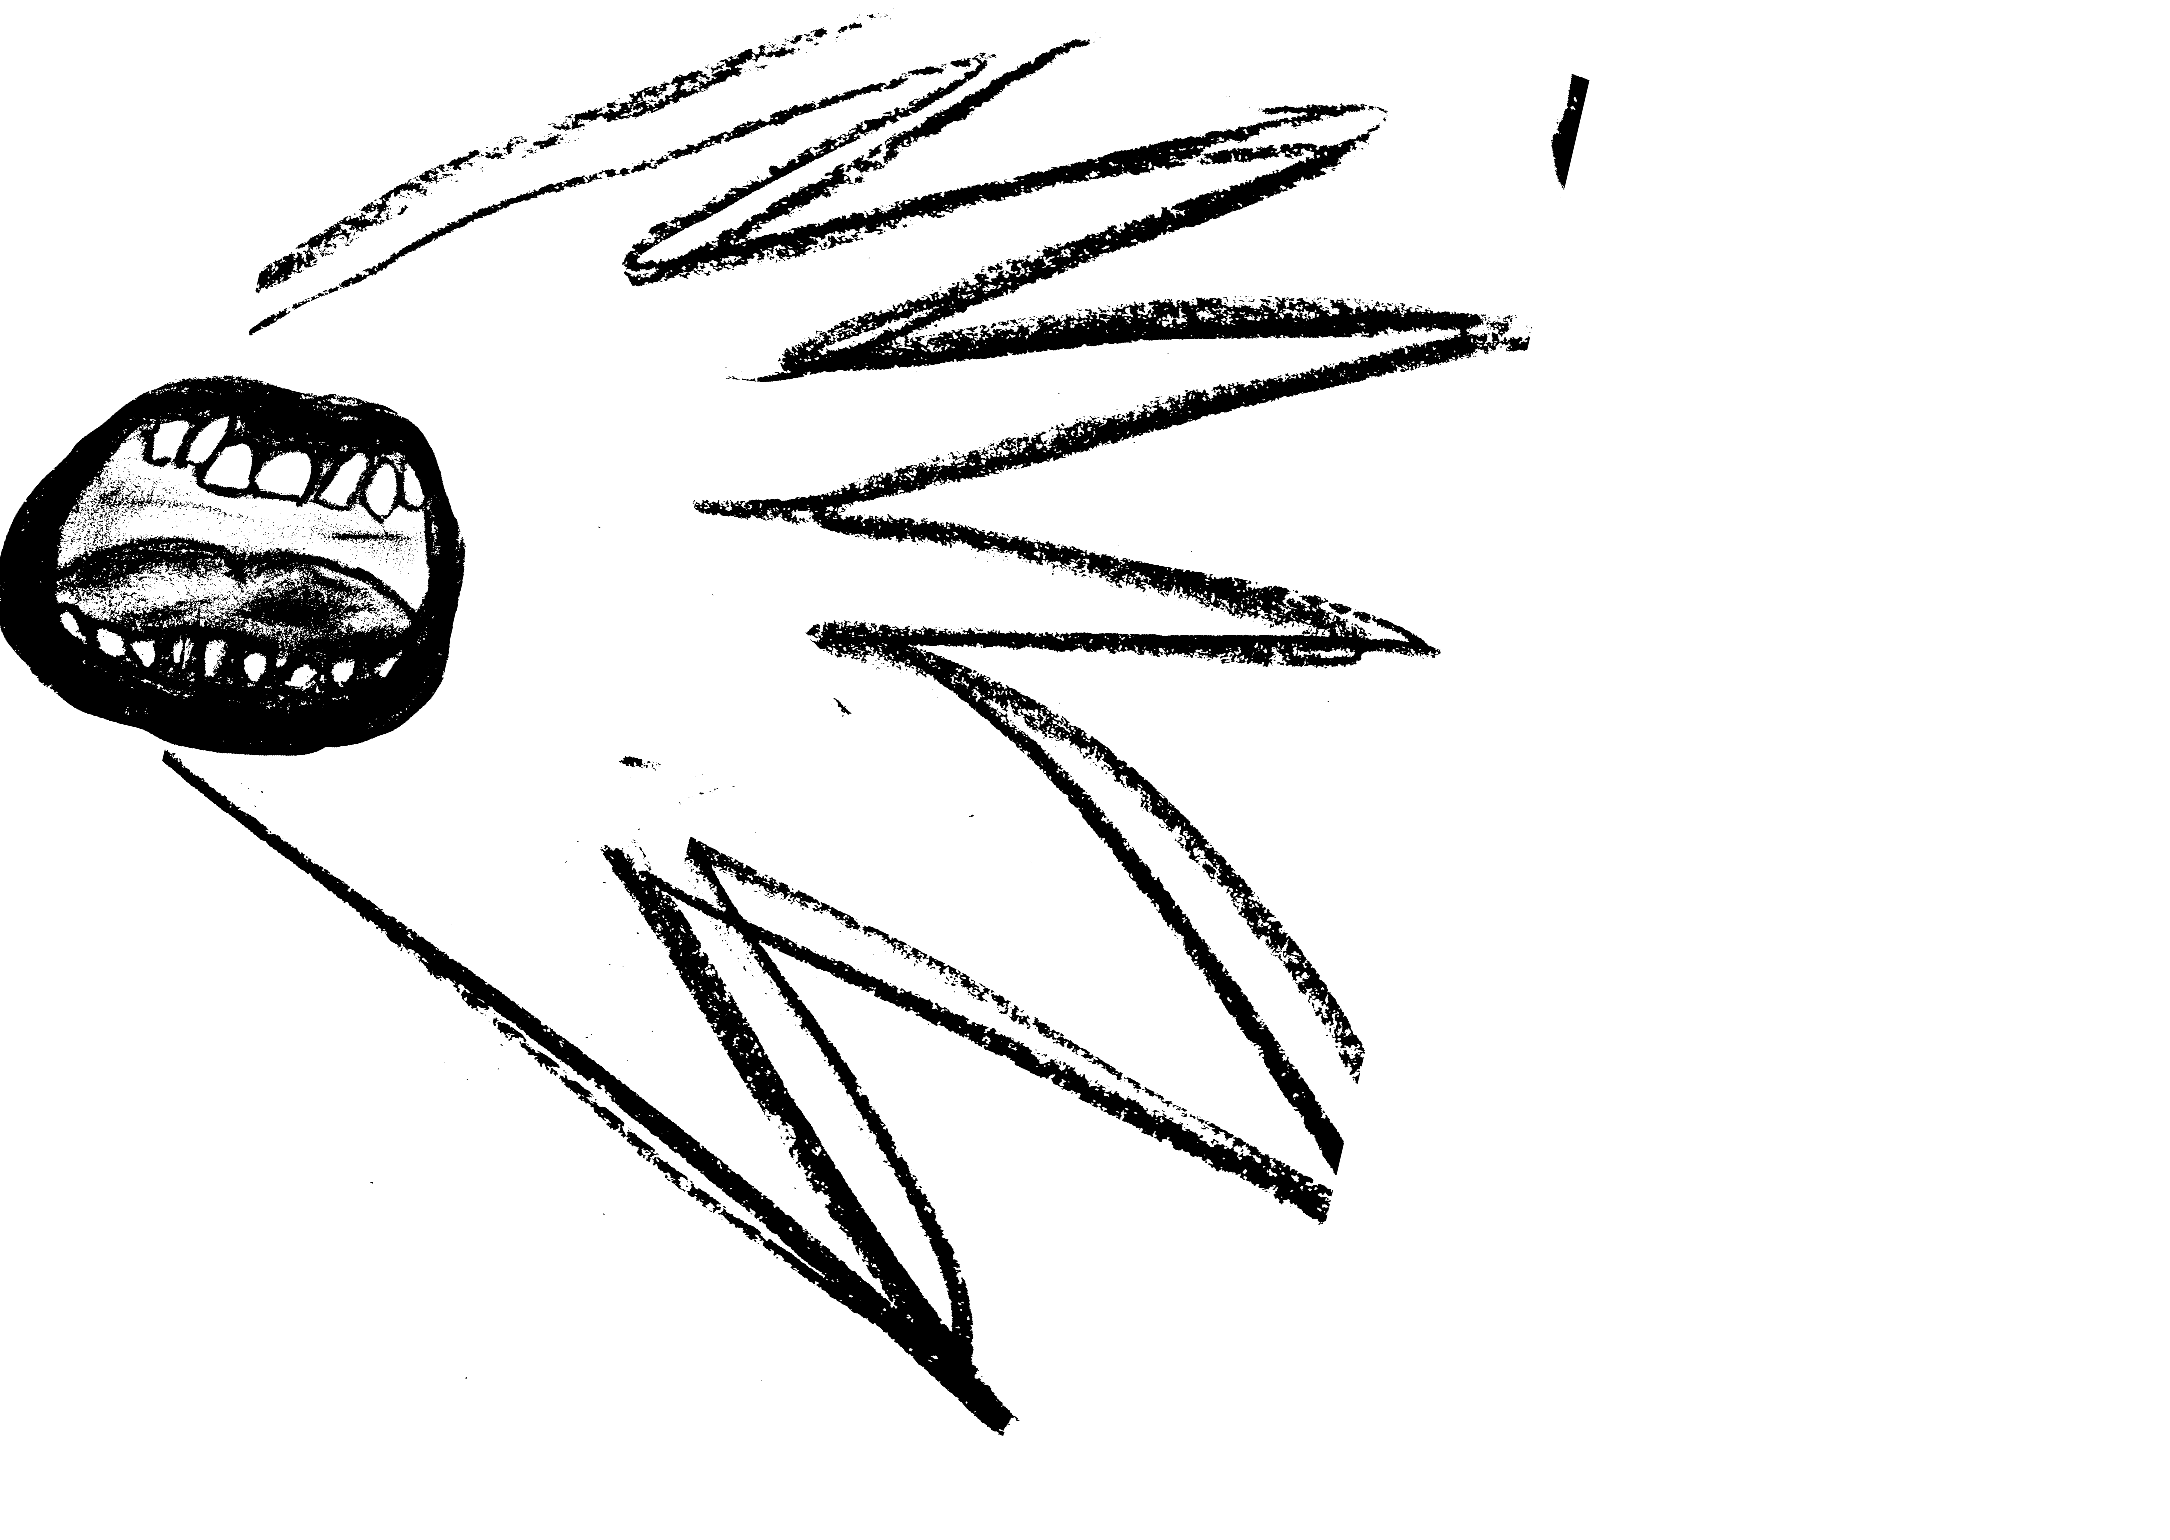
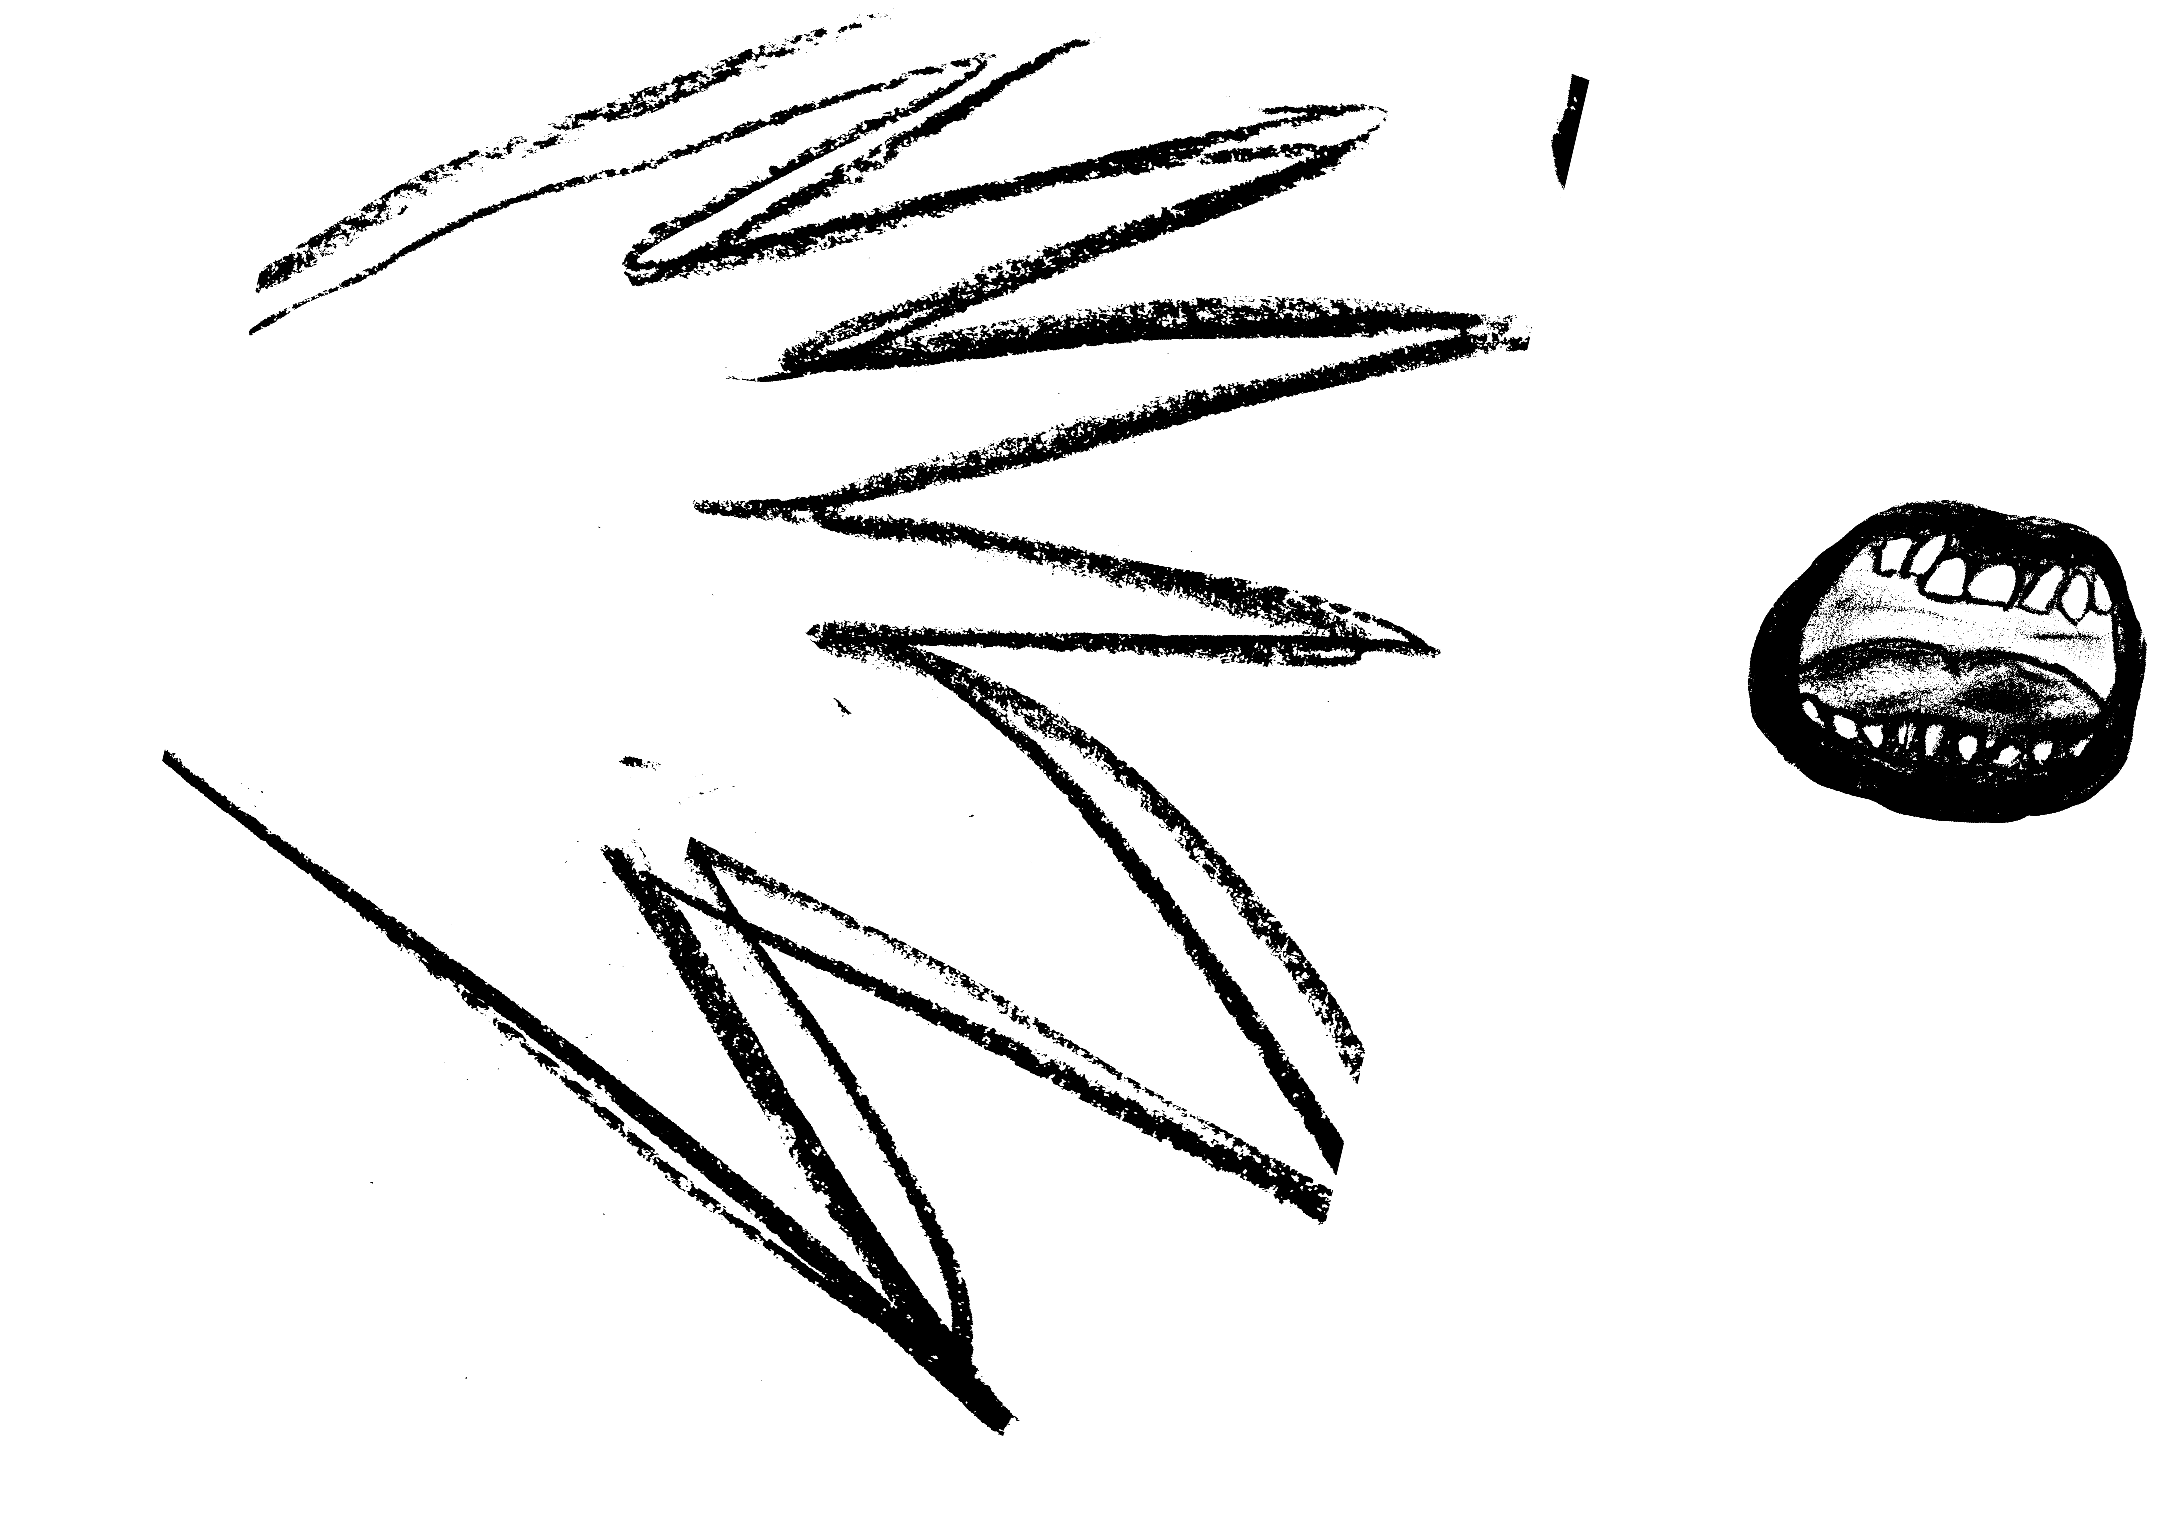
Add files via upload

Changed region(s): [[0.0, 0.2182, 0.2161, 0.4987], [0.8028, 0.3117, 0.988, 0.561]]

diff --git a/index.html b/index.html
@@ -36,13 +36,15 @@
       .st-buehne > * { }
     }
 
+    #lebenslauf > h2 { border-top: 0; padding-top: 0; }
+
     /* --- About me --- */
     .ab { position: relative; overflow: hidden; border-top: 3px solid #000; border-bottom: 3px solid #000; margin: clamp(28px, 6vw, 80px) 0 0; padding: clamp(14px, 2vw, 28px) 0 clamp(40px, 6vw, 84px); }
     .ab-text { position: relative; z-index: 2; width: 47%; min-width: 300px; margin: 0 auto; }
     .ab-text h2 { font-family: var(--display); font-weight: 900; font-size: clamp(2.1rem, 4.6vw, 4.8rem); line-height: 1; text-transform: uppercase; margin: 0 0 clamp(.7rem, 1.6vw, 1.5rem); padding: 0; border: 0; }
-    .ab-text p { max-width: none; margin: 0 0 1.05em; font-size: clamp(1.02rem, 1.75vw, 1.7rem); line-height: 1.22; font-weight: 400; text-align: left; }
+    .ab-text p { max-width: none; margin: 0 0 1.5em; font-size: clamp(1.02rem, 1.75vw, 1.7rem); line-height: 1.35; font-weight: 400; text-align: left; }
     .ab-stern { position: absolute; z-index: 1; width: 38%; height: auto; pointer-events: none; }
-    .ab-stern.l { left: -25%; top: 6%; transform: scaleX(-1) rotate(-12deg); transform-origin: 70% 50%; }
+    .ab-stern.l { left: -30%; top: 6%; transform: scaleX(-1) rotate(-12deg); transform-origin: 70% 50%; }
     .ab-stern.r { left: 71%; top: 24%; }
     @media (max-width: 719px) {
       .ab { padding-top: 52vw; }
@@ -57,8 +59,10 @@
     .ko h2 { font-family: var(--display); font-weight: 900; font-size: clamp(2.2rem, 5vw, 5.2rem); line-height: 1; text-transform: uppercase; margin: 0 0 clamp(.8rem, 2vw, 2rem); padding: 0; border: 0; }
     .ko a.mail { position: relative; z-index: 2; display: inline-block; font-family: var(--display); font-weight: 900; font-size: clamp(1.05rem, 3.05vw, 3.4rem); line-height: 1.1; text-transform: uppercase; color: #000; text-decoration: none; word-break: break-word; transition: color .2s ease; }
     .ko a.mail:hover, .ko a.mail:focus-visible { color: var(--violett, #8b3ff0); outline: none; }
-    .ko-daumen { position: absolute; right: -1.2%; bottom: 0; width: 15.5%; min-width: 96px; height: auto; transform: scaleX(-1); pointer-events: none; }
-    @media (max-width: 719px) { .ko a.mail { font-size: 4.9vw; } .ko-daumen { width: 30%; } }
+    .ko-daumen { position: absolute; right: -1.2%; bottom: 0; width: 17%; min-width: 120px; height: auto; transform: translate(70%, 75%) scaleX(-1); opacity: 0; transition: transform .55s cubic-bezier(.2,.9,.25,1.15), opacity .2s ease; pointer-events: none; }
+    .ko a.mail:hover ~ .ko-daumen, .ko a.mail:focus-visible ~ .ko-daumen, .ko a.mail:active ~ .ko-daumen { transform: translate(0, 0) scaleX(-1); opacity: 1; }
+    @media (prefers-reduced-motion: reduce) { .ko-daumen { transition: opacity .2s ease; transform: scaleX(-1); } }
+    @media (max-width: 719px) { .ko a.mail { font-size: 4.9vw; } .ko-daumen { width: 38%; } }
   </style>
 </head>
 <body>
@@ -93,7 +97,6 @@
         <li><a href="animation.html">Animation</a></li>
         <li><a href="grafik-design.html">Grafik Design</a></li>
         <li><a href="fotografie.html">Fotografie</a></li>
-        <li><a href="index.html#about">About me</a></li>
       </ul>
     </nav>
 
@@ -146,21 +149,11 @@
         <div class="ab-text">
           <h2>About me</h2>
           <!-- Hier kannst du den Text ändern. Neuer Absatz = neuer p-Block -->
-          <p>
-              Ich bin Stella Schreiber, Kommunikationsdesignerin im Studium an der HTW Berlin.
-              Im Mittelpunkt meiner Arbeit steht die Animation, ergänzt durch klassisches
-              Grafikdesign, Fotografie und handwerkliche Arbeiten wie die Buchbindung.
-            </p>
-          <p>
-              In meinen Arbeiten beschäftige ich mich mit gesellschaftlichen Fragen und der
-              Alltag liefert dafür erstaunlich viel Absurdes. Ich greife beides mit Metaphern
-              und Humor auf, damit sie zugänglich bleiben. Mein Stil ist comichaft, mit klaren
-              Formen, kräftigen Farben und nicht zu nah an der Realität. Alles, was sich
-              zeichnen lässt, kann existieren.
-            </p>
-          <p>
-              Ich suche Arbeit bzw. auch einen Praktikumsplatz.
-            </p>
+          <p>Alsoooo ich mache gerne Illustartionen, Animation, Comics, Plakate oder Videos.</p>
+          <p>Dabei beschäftige ich mich gerne mit gesellschaftlichen Fragen, ich mag es wenn es nicht zu ernst bleibt aber es darf natürlich auch Ernst sein.</p>
+          <p>Generell lebe ich wohl in Gegensätzen. Ich mag es bunt, aber auch schwarz-weiß. Ich mag Dinge, die Sinn ergeben und Dinge, die überhaupt keinen Sinn ergeben. Ich mag es laut, aber dann ist es irgendwie zu laut. Ich mag das Absurde aber auch das Reale, was mir aber oft absurd erschent.</p>
+          <p>Naja gerade studiere ich an der HTW Berlin Kommunikationsdesign, suche nach Arbeit oder Praktikum.</p>
+          <p>Sooooooooo, hit me up!</p>
         </div>
       </section>
 

diff --git a/animation.html b/animation.html
@@ -28,7 +28,6 @@
       <li><a href="animation.html" aria-current="page">Animation</a></li>
       <li><a href="grafik-design.html">Grafik Design</a></li>
       <li><a href="fotografie.html">Fotografie</a></li>
-      <li><a href="index.html#about">About me</a></li>
     </ul>
   </nav>
 

diff --git a/fotografie.html b/fotografie.html
@@ -28,7 +28,6 @@
       <li><a href="animation.html">Animation</a></li>
       <li><a href="grafik-design.html">Grafik Design</a></li>
       <li><a href="fotografie.html" aria-current="page">Fotografie</a></li>
-      <li><a href="index.html#about">About me</a></li>
     </ul>
   </nav>
 

diff --git a/grafik-design.html b/grafik-design.html
@@ -28,7 +28,6 @@
       <li><a href="animation.html">Animation</a></li>
       <li><a href="grafik-design.html" aria-current="page">Grafik Design</a></li>
       <li><a href="fotografie.html">Fotografie</a></li>
-      <li><a href="index.html#about">About me</a></li>
     </ul>
   </nav>
 

diff --git a/illustration.html b/illustration.html
@@ -28,7 +28,6 @@
       <li><a href="animation.html">Animation</a></li>
       <li><a href="grafik-design.html">Grafik Design</a></li>
       <li><a href="fotografie.html">Fotografie</a></li>
-      <li><a href="index.html#about">About me</a></li>
     </ul>
   </nav>
 
